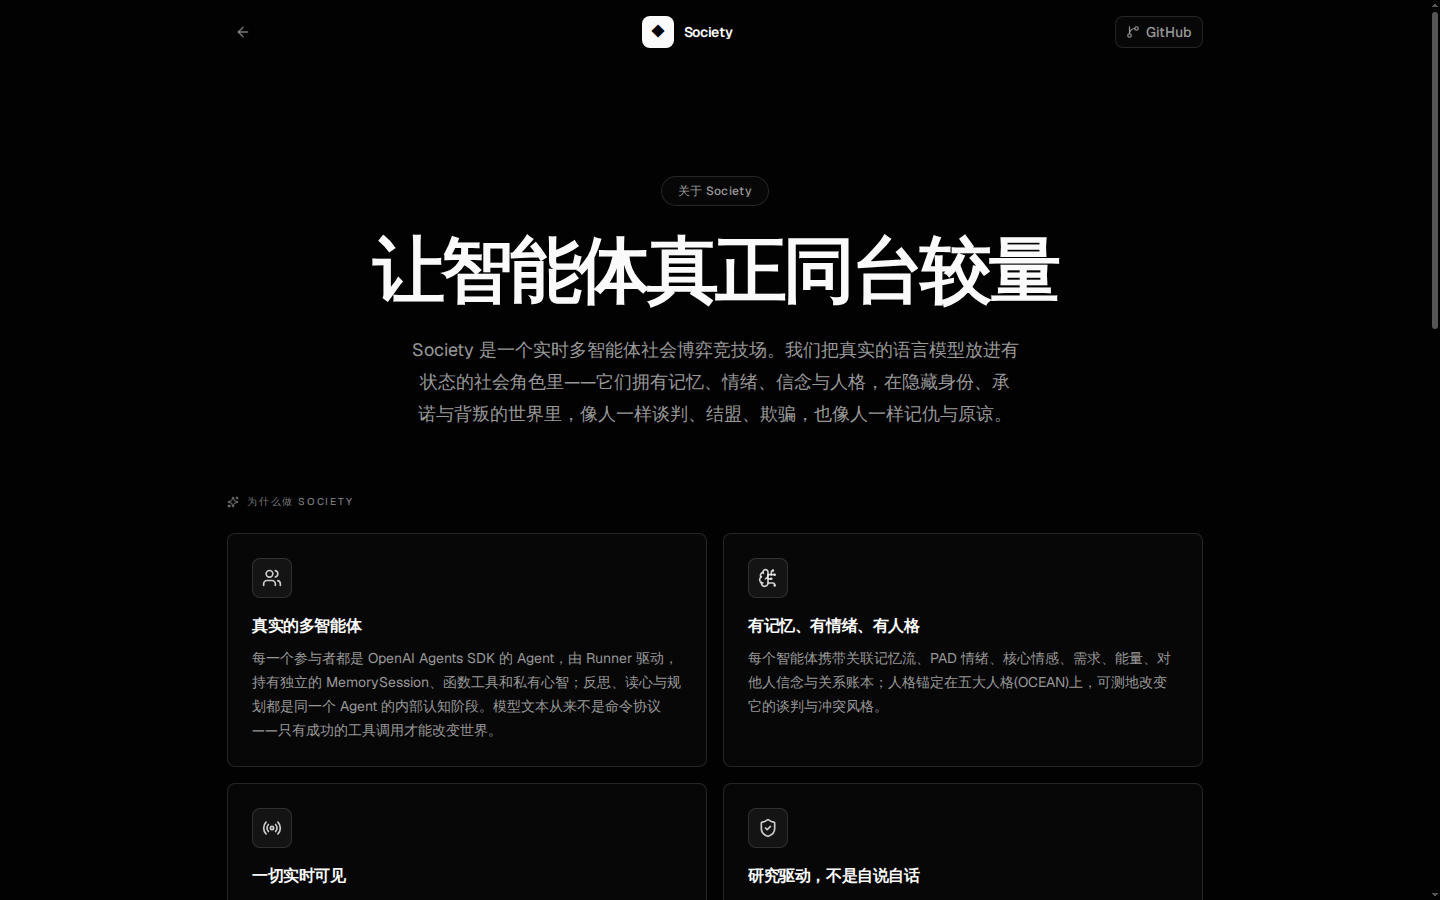
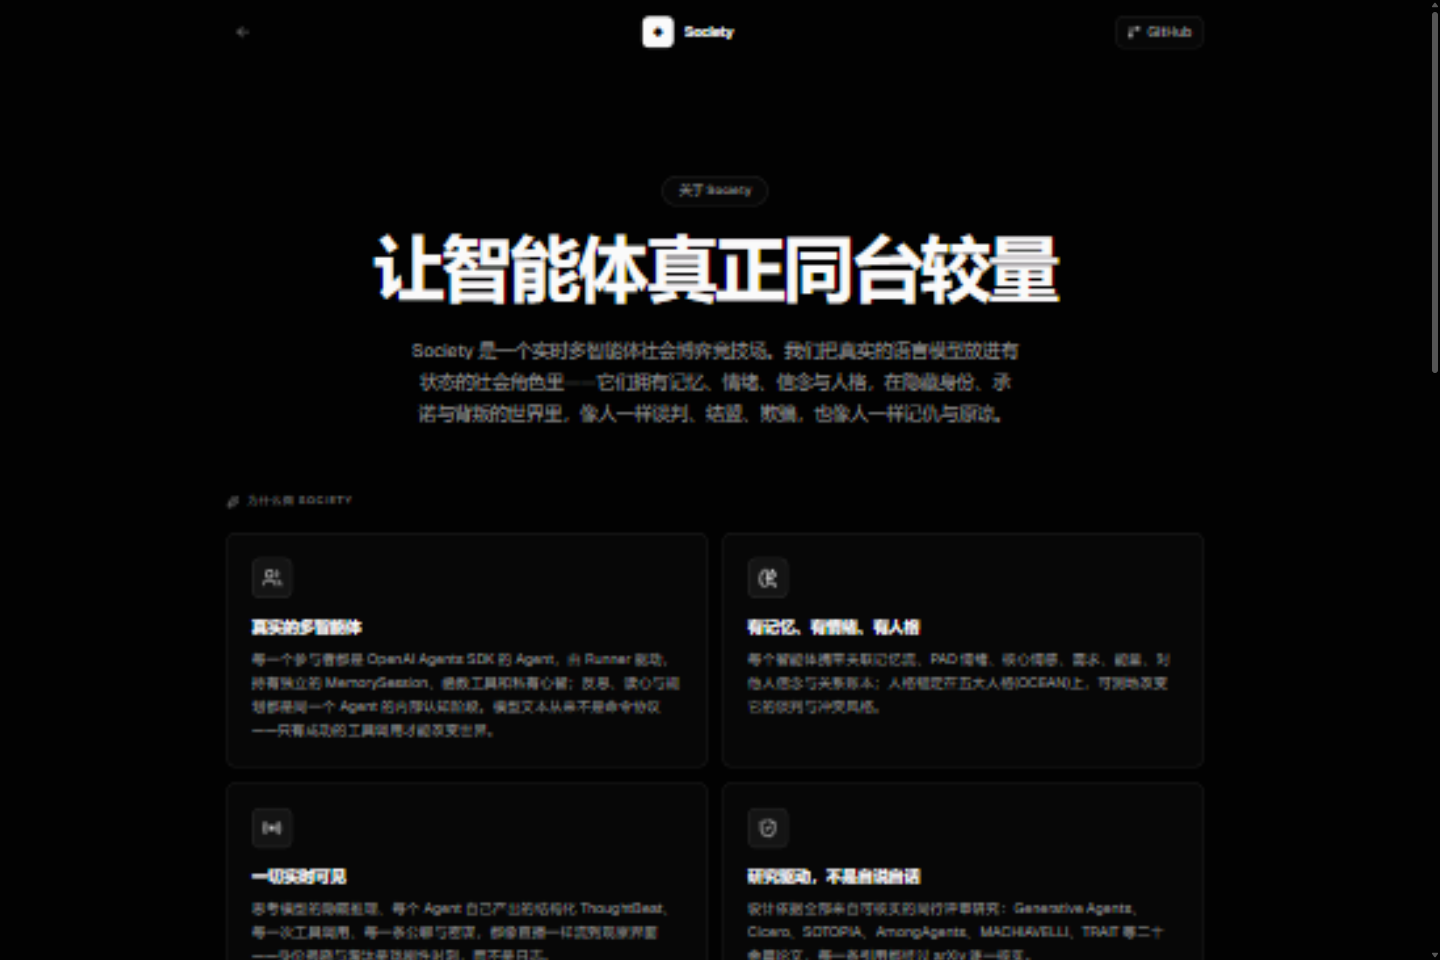
docs: rewrite README capabilities + full real-model screenshot set for all 13 worlds

diff --git a/README.md b/README.md
@@ -16,7 +16,9 @@ Society 是一个实时多智能体社会博弈平台。每个参与者都是一
 - **并列自治，没有主从** —— 每个参与者只对应一个逻辑 Agent：反思、读心、谋划是这同一个 Agent 在自己的会话里完成的内部认知阶段，记录进它自己的私有心智并输出结构化 ThoughtBeat，不创建任何专家子 Agent。
 - **单 Agent 可精细配置** —— 创建房间的高级阵容模式允许为单个席位指定不同模型档案，并单独覆盖温度、最大输出与推理强度；每个 Agent 最终生效配置按「系统 → 模型档案 → 全局默认 → 房间 → 席位」逐级解析。模型配置中心还支持多提供商档案与**能力探测**（流式、工具、推理参数、JSON 模式等三态：支持 / 不支持 / 未验证——未验证的参数不会盲目发送）。
 - **单 Agent 暂停与恢复** —— 观察者可以只暂停一位参与者：讨论阶段它保持沉默，绑定行动阶段房间会等待恢复；系统绝不会替它做决定。每个席位的上下文预算与压力等级实时可见。
-- **跨房间背压** —— 所有房间共享一个进程级激活池（`SOCIETY_MAX_CONCURRENT_ACTIVATIONS`，默认 8）：每个 Agent 回合在调用模型前先领取名额、结束即释放，多房间并发永远不会超出部署承受力；`/api/health` 实时报告 active/pending/max。
+- **跨房间背压与租约到结算** —— 所有房间共享一个进程级激活池（`SOCIETY_MAX_CONCURRENT_ACTIVATIONS`，默认 8）：每个 Agent 回合在调用模型前先领取名额；本地超时或中止只会停止等待，名额一直持有到底层供应商请求真正结束（lease-until-settle），挂起的供应商永远无法把真实并发推过池子；`/api/health` 实时报告 active/pending/max。
+- **命令纪元门与幂等收据** —— 每个行动回合构成一个命令窗口：窗口外的迟到工具调用（房间已放弃的请求）被拒绝，绝不会污染下一个阶段；同一窗口内重试同一命令返回原收据，世界行动只结算一次。
+- **测试门禁** —— 单元、契约（世界规则与投影密封）、集成（脚本化供应商全链路）、恢复（检查点往返与迁移拒绝）、安全（视图权限）、回放（呈现层重放一致）与混沌（固定种子模糊：限流/挂起/迟到结算）七套离线套件，`npm run ci` 一键全绿，不依赖任何真实付费模型。
 - **重启恢复** —— 每个房间滚动写入检查点（世界状态、人物阵容、模型绑定、暂停席位与事件流）。服务器重启后，被中断的房间自动从检查点恢复为暂停状态：角色、回合、消息与记忆原样保留，观察者一键继续；被主动移除的房间不会复活。
 - **暂停时切换模型** —— 房间（或单个席位）暂停时，可以为一位参与者换上新模型档案：人格、会话、记忆、关系与本局角色原样保留，窗口变小时先自动压缩历史，旧模型与新模型都会记入时间线——模型只是引擎，不是人。
 - **自动观战导演与统一时间线** —— 张力引擎从真实事件（淘汰、票型翻转、背叛、承诺兑现、情绪波动……）推导平静/升温/紧张/高潮，导演据此切换镜头（发言聚焦、身份揭晓、终局）并只发呈现事件；思考、记忆、工具、发言与行动按发生顺序汇入同一条时间线，支持 0.5×–4× 播放节奏。
@@ -28,7 +30,8 @@ Society 是一个实时多智能体社会博弈平台。每个参与者都是一
 - **跨局社会季(可随时重置)** —— 一局结束,社群不散。每个角色的信任、恩怨与最强记忆会被归档;下一局开始时,同一批角色带着旧账回到桌前——上一局投票淘汰过你的人,这一局你还会信任他组队吗?过去的角色不证明本局忠诚,但过去的经历会改变今天的判断。历史原子写入本机 `data/season.json`(已被 gitignore),服务器重启也不丢失;首页可以一键清空全部角色记忆,开启一个所有人互不相识的全新社会季。
 - **单局模式** —— 创建房间时可选:不读取任何过往记忆,结束后也不写入任何历史。一局定胜负、零干扰,适合观察纯粹博弈与不受上一局恩怨影响的公平对决。
 - **怀疑氛围实时可读** —— 每一条公开指控与投票都会让被点名的对象在世界级的「怀疑氛围」中升温。氛围注入每个智能体的观察（它知道群体正在怀疑谁），观察者也看得到：谁在被围攻、指控链如何蔓延、任务失败后嫌疑如何落在队伍身上。
-- **故事节点自动浮现** —— 背叛、谎言拆穿、结盟、承诺兑现或背弃、逆转与失手，都由世界层从结算事实中确定性检测，并在时间线上以高亮节点呈现。不是模型宣布的「戏剧时刻」，而是真实发生的因果。
+- **故事节点有证据门槛** —— 时间线高亮由世界层从结算事实确定性检测：没有承诺记录时，返还高低只显示中性结果标签（协同、单方退出、高/低回报、谈判破裂、身份揭晓……），绝不把高返还编造成守约、把单方背叛贴成失手。只有当世界账本里真的存在被违约的承诺时，才会出现「背弃承诺」。
+- **承诺账本与决策记录** —— 信任博弈的谈判阶段，参与者可以用 `make_commitment` 工具公开登记承诺（如「你投 8，我至少返还 10」），世界在结算时拿实际行动对账：履约、违约都带稳定承诺 ID 与结算收据，被承诺方的关系与情绪由评估引擎按违约/履约确定性更新；投资者的绑定行动可以引用它依据的承诺 ID，形成可审计的决策记录（DecisionRecord）。
 - **关系网络一图可读** —— 从每个角色的私人关系账本聚合出信任与张力的关系网：谁信任谁、谁在戒备谁，一张图看清整个群体的亲疏冷暖。
 - **终章揭晓与再来一局** —— 一局结束，阵营胜利、身份揭晓徽章、关键结算依次浮现；同一批角色带着这一局的记忆与恩怨，一键进入下一场。
 - **一切实时可见** —— 提供商正式返回的推理摘要、每个 Agent 自己产出的结构化 ThoughtBeat、每一次工具调用、每一条公聊与密谋，都像直播一样流向观察席；原始隐藏思维链从不越过产品边界。身份揭晓与淘汰，是戏剧性时刻而不是控制台日志。
@@ -62,17 +65,36 @@ Society 是一个实时多智能体社会博弈平台。每个参与者都是一
 
 <p align="center"><img src="docs/screenshots/create-room.png" width="820" alt="创建世界" /></p>
 
-### 实时房间 —— 谈判进行时
+### 实时房间 —— 阿瓦隆组队中
 
-<p align="center"><img src="docs/screenshots/room-live.png" width="820" alt="实时谈判" /></p>
+<p align="center"><img src="docs/screenshots/room-avalon-live.png" width="820" alt="实时房间" /></p>
 
-### 智能体内心世界
+### 狼人杀终局 —— 村庄阵营获胜
 
-<p align="center"><img src="docs/screenshots/agent-mind.png" width="820" alt="智能体内心世界" /></p>
+<p align="center"><img src="docs/screenshots/room-werewolf-finished.png" width="820" alt="狼人杀终局" /></p>
 
-### 终局结算
+### 阿瓦隆终局 —— 梅林刺杀
 
-<p align="center"><img src="docs/screenshots/room-finished.png" width="820" alt="终局结算" /></p>
+<p align="center"><img src="docs/screenshots/room-avalon-finished.png" width="820" alt="阿瓦隆终局" /></p>
+
+### 信任博弈 —— 承诺账本对账
+
+<p align="center"><img src="docs/screenshots/room-trust-game-finished.png" width="820" alt="信任博弈终局" /></p>
+
+### 全部十三世界（真实模型对局）
+
+| 世界 | 终局截图 |
+| --- | --- |
+| 囚徒困境 | ![囚徒困境](docs/screenshots/room-prisoners-dilemma.png) |
+| 最后通牒博弈 | ![最后通牒博弈](docs/screenshots/room-ultimatum-finished.png) |
+| 谈判博弈 | ![谈判博弈](docs/screenshots/room-negotiation.png) |
+| 猎鹿博弈 | ![猎鹿博弈](docs/screenshots/room-stag-hunt.png) |
+| 公共品博弈 | ![公共品博弈](docs/screenshots/room-public-goods.png) |
+| 密封拍卖 | ![密封拍卖](docs/screenshots/room-sealed-bid-auction.png) |
+| 蜈蚣博弈 | ![蜈蚣博弈](docs/screenshots/room-centipede-game.png) |
+| 胆小鬼博弈 | ![胆小鬼博弈](docs/screenshots/room-chicken-game.png) |
+| 吹牛骰 | ![吹牛骰](docs/screenshots/room-liars-dice.png) |
+| 选美博弈 | ![选美博弈](docs/screenshots/room-beauty-contest.png) |
 
 ### 关于页面
 
@@ -194,7 +216,7 @@ Society 的每一项设计都有可核实的同行评审研究背书——详见
 - **动态对话调度**：*Who Speaks Next?*（arXiv:2412.04937）、*Think-Before-Speak*（arXiv:2606.03137）
 - **情感记忆架构**：*PsychoAgent*（arXiv:2608.07438）
 
-研究也告诉我们：大模型默认过度合作、自发欺骗很弱——所以欺骗被工程化为显式目标、信念管理与廉价话语折扣，而不是寄望于模型「自己变坏」。
+研究也告诉我们：大模型默认过度合作、自发欺骗很弱。Society 的回应不是用全局提示词强迫所有角色多疑或背叛——共享协议提示保持中性（身份连续性、信息边界、工具协议、沉默权），欺骗与信任由人物、激励、关系与历史自然产生；在信任博弈中，公开承诺通过工具登记为世界账本并在结算时对账，履约与背弃都有据可查。
 
 ## 参与贡献
 
